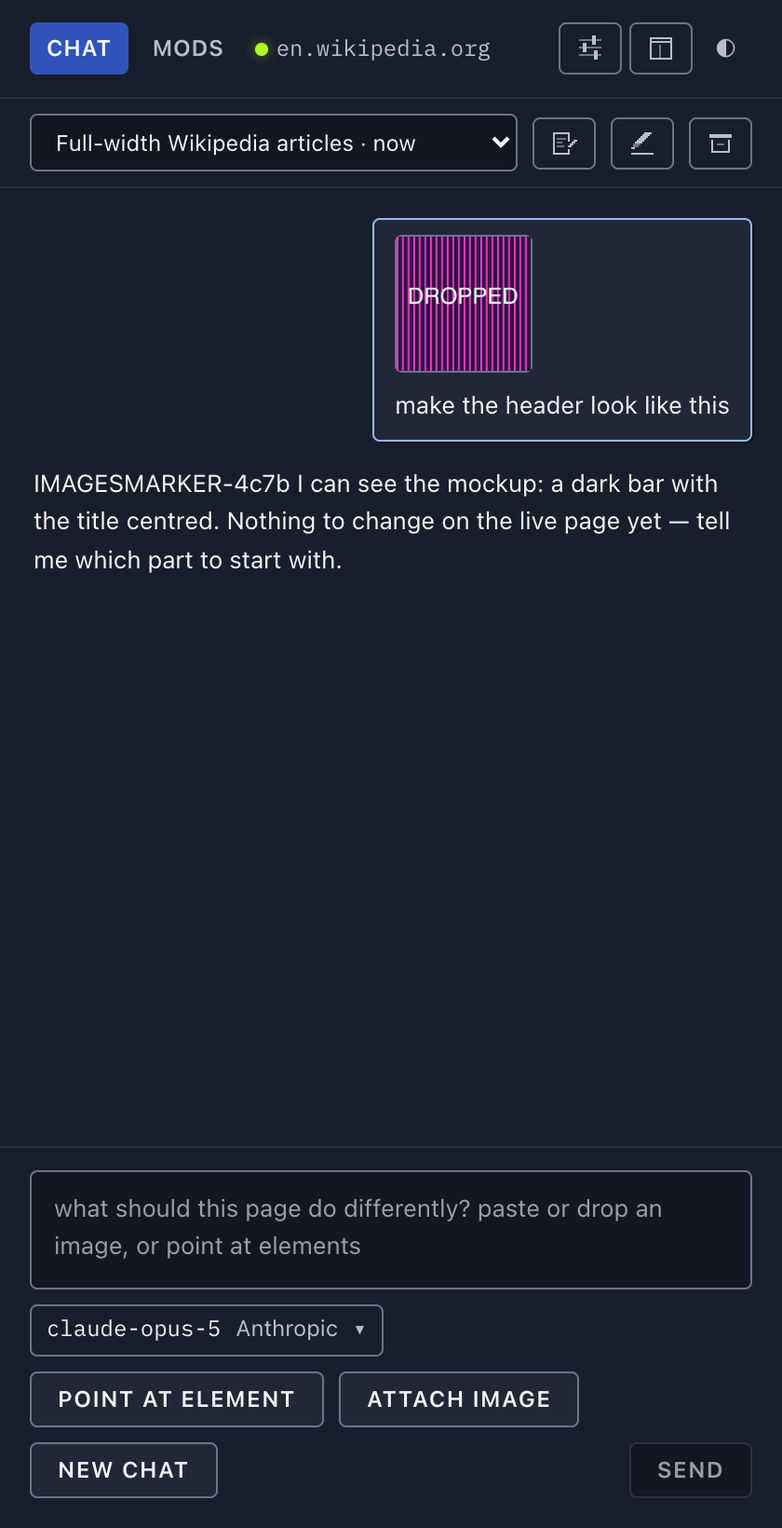
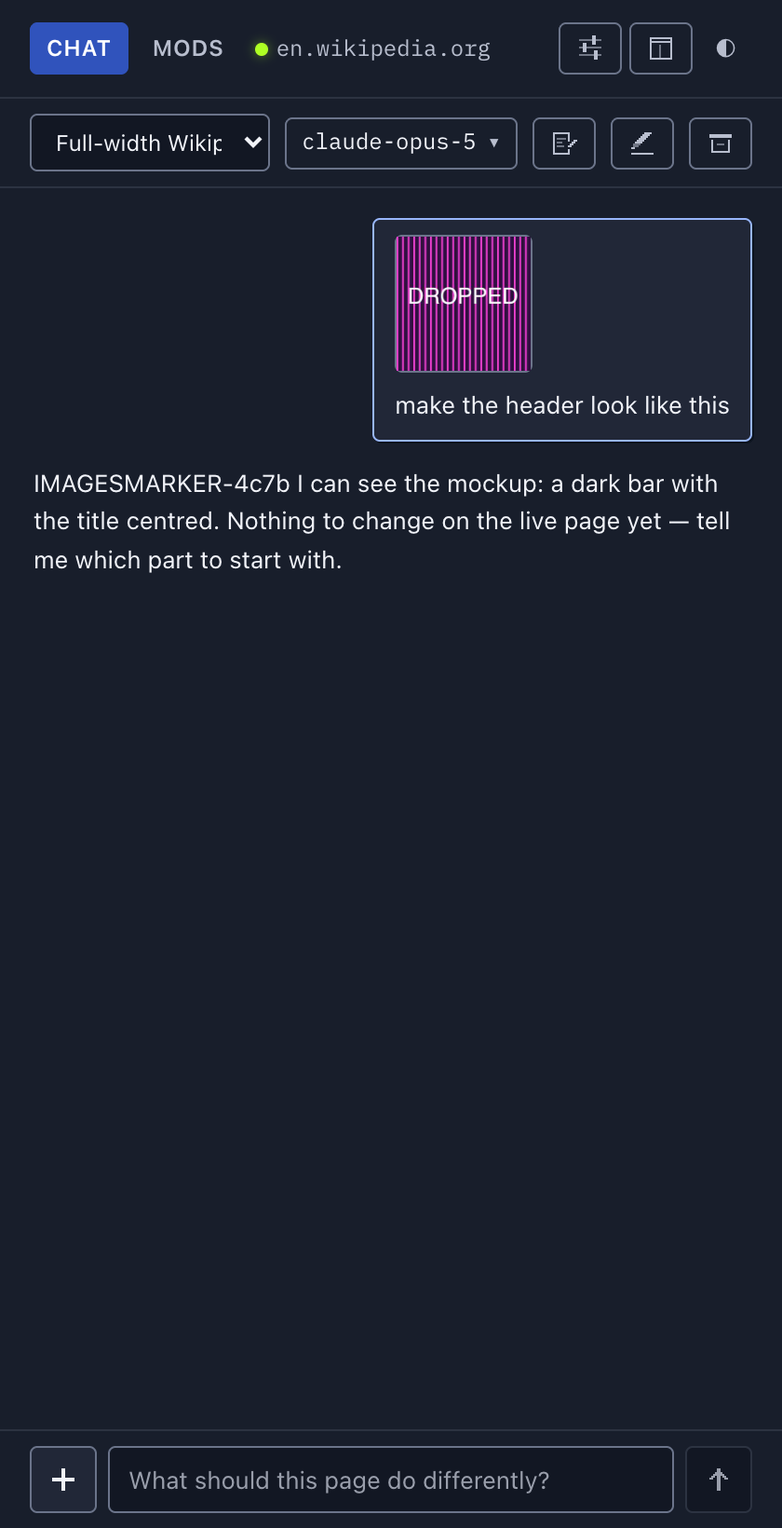
docs: the one-row composer and the model chip
README, design.md (the composer, menus, the dropdown now anchored to the chat bar, the Thinking row
without its help sentence), safari.md, the QA checklist's steps that named the old buttons, and the
CHANGELOG under Unreleased with the before/after heights. Captures the composer appears in are
regenerated: 01 in both themes, 02, 08, 09, 10, 11, 12 (the dropdown open with Thinking inside),
and the store's 01-chat and 02-point. hero-github.png is untouched.

diff --git a/docs/design.md b/docs/design.md
@@ -405,51 +405,94 @@ The toggle is a rounded track with a knob; on is a lime fill with an ink knob, p
 Its **border carries its boundary** — full lime on white is 1.23:1 — and the knob's travel is a
 second signal that does not depend on colour at all.
 
+### The composer
+One row: **+**, the message box, **Send**. The phone's composer (below), adapted to a pointer:
+36px controls instead of 44px, hover states, and a word beside the send mark once the composer is
+520px wide (the tab bar's container-query convention, reused). The box starts at one line
+(`min-height: 36px`, `field-sizing: content`) and grows with its text to ten lines or 40% of the
+panel, whichever is smaller; Enter sends, Shift+Enter breaks the line. Reference and image chips
+appear above the row only when there are any, and the two things about the model that cannot wait
+for the dropdown — a swap that waits for the next turn, a chat with no usable model — are one line
+above the row, only while true. **Send** is the screen's one primary; the same button is **Queue**
+while a run is going and there is something typed, and **Stop** while there is not (`sendMode()` in
+`lib/compactshell.ts`, shared with the phone). Stop is never out of reach: the activity line carries
+its own Stop for the whole run. Empty, the composer is 53px: a 36px row inside 8px of padding and
+its hairline. It was 205px at the panel's default width, and everything it lost the transcript
+gained.
+
+*Don't* put a control in this row that is not about the message being typed. The model is not: it
+is a property of the chat, and it lives in the chat bar.
+
+### Menus (the + button)
+The pattern for a short list of actions behind one button: `components/Menu.tsx`, the composer's
+**+** (Point at element, Attach image, New chat). The ARIA menu-button pattern: a trigger with
+`aria-haspopup="menu"` and `aria-expanded`, a `role="menu"` of `role="menuitem"` buttons; Enter,
+Space and ↓ open on the first item, ↑ on the last; ↑/↓ wrap, Home/End jump, Escape closes and
+returns focus, Tab closes and moves on, a press outside closes. Choosing an item closes the menu and
+returns focus *before* the action runs, so an action that moves focus elsewhere (the file chooser,
+the element picker) is not fought by the menu's clean-up; and it runs inside the click's own event,
+which is what a file input's `click()` needs to count as a gesture.
+
+A bordered panel on `--surface-2` with no shadow, like the dropdown below, opening **upward** from
+its button because the composer is the last thing in the panel, as wide as its words. Rows are the
+text face at body size, sentence case; hover and keyboard focus are one state — the well plus a 2px
+inset primary rail, never colour alone. A shortcut, when an item has one, sits at the right in mono
+`--text-3` and is informative only; none of the three current items has one. Disabled items stay in
+the list and recede by colour, so what the button *can* do is still visible.
+
+*Don't* use a menu for something done on every message. *Don't* draw a scrim: it is a menu, not a
+dialog, and the transcript behind it stays readable.
+
 ### Dropdown menus (the model picker)
 The pattern for choosing one value out of a long, grouped list where a native `<select>` cannot
-filter, group with status, or take a typed value. One instance so far: the model picker under the
-composer (`ModelPicker.tsx`, `modelpicker.css`).
+filter, group with status, or take a typed value. One instance so far: the model chip in the chat
+bar (`ModelPicker.tsx`, `modelpicker.css`), which also holds the Thinking level.
 
-**The trigger reads as a value, not an action.** Mono, sentence case, 12px, a 1px control outline and
-a `▾` — never the uppercase button label, because it is showing an identifier (`claude-opus-5`), not
-asking for a click. The secondary half (the provider) is the text face in `--text-2` and is the first
-thing to truncate; the whole trigger is capped at the line's width, so a 60-character model id
-ellipsises instead of widening a 320px panel. An unset trigger takes the warn edge **and the words**
-"Pick a model" — never the colour alone.
+**The trigger is a chip that reads as a value, not an action.** Mono, sentence case, 12px, a 1px
+control outline and a `▾` — never the uppercase button label, because it is showing an identifier
+(`claude-opus-5`), not asking for a click. It sits in the **chat bar**, after the switcher, because
+the model is a property of the chat rather than of the message being typed, and because it is
+changed rarely: the composer is looked at all the time and is kept to one row. The chip may take
+45% of the bar and no more; the id truncates, and the provider (the text face in `--text-2`) is
+shown only once the bar is 640px wide — at 520px the bar has just spent its width on its buttons'
+words. The Thinking level rides on the chip as a smaller muted pill (`· high`) **only when it is
+not Default**, so it is discoverable without a row of its own and silent for the chat that never
+touched it. An unset chip takes the warn edge **and the words** "Pick a model" — never the colour
+alone.
 
 **The popover is a bordered panel with no shadow.** Nothing lifts in this system except the primary
 button and the hero card, so the popover is separated from the transcript it opens over by
-`--border-strong` on `--surface-2`, not by depth. It opens **upward** (the composer is the last thing
-in the panel), spans the composer's width rather than its trigger's, and is capped at
-`min(420px, 55dvh)` with the list scrolling inside, so it can never reach under the tab bar.
+`--border-strong` on `--surface-2`, not by depth. It opens **downward** from the chat bar, spans
+the bar's content width rather than its chip's (the bar is its positioning context), and is capped
+at `min(420px, 55dvh)` with the list scrolling inside, so it never reaches the composer.
 
 **Anatomy, top to bottom:** one field that both filters and accepts a typed value; the list, grouped
 under section labels (text face, 600, uppercase, tracked — the same as a form label) with a quiet
 status beside a group's name when it needs one (`refreshing…`, `built-in list`, `could not list`, in
-the warn tone plus those words); then a footer of `linklike` actions on `--surface-1`
-(*Refresh models*, *Manage providers…*). A typed value is offered **after** every real match, as
-*Use "…" on <provider>*, so that Enter on a filter picks a real model.
+the warn tone plus those words); then the **Thinking** row (below); then a footer of `linklike`
+actions on `--surface-1` (*Refresh models*, *Manage providers…*). A typed value is offered **after**
+every real match, as *Use "…" on <provider>*, so that Enter on a filter picks a real model.
 
 **States.** The active option (where ↑/↓ is) takes the well **and a 2px inset `--primary` rail** — the
 rail is not optional, because in day the raised surface and the panel are the same white, and a state
 may not rest on colour or on a transitioned property alone. The selected option (the value in use)
 carries a lime `●` and the label weight, so active and selected stay distinguishable when they are
-different rows. Open is marked on the trigger by an inset ring as well as the border.
+different rows. Open is marked on the chip by an inset ring as well as the border.
 
 **Keyboard and ARIA.** Button with `aria-haspopup="listbox"` / `aria-expanded`; the field is
 `role="combobox"` with `aria-controls` and `aria-activedescendant`; the list is `role="listbox"` with
 `role="group"` + `aria-label` per section and `role="option"` + `aria-selected` rows. Focus never
 leaves the field while arrowing. ↑/↓ wrap across groups, Home/End jump when the field is empty, Enter
-picks, Escape closes and returns focus to the trigger, Tab walks on to the footer and then out, which
-closes it. Options pick on `mousedown`, because the field's blur would otherwise close the list
-before a click landed.
+picks, Escape closes from anywhere inside and returns focus to the chip, Tab walks on to the Thinking
+levels and the footer and then out, which closes it. Options pick on `mousedown`, because the
+field's blur would otherwise close the list before a click landed.
 
 *Don't* reach for this where a native `<select>` does the job — Theme and *Side panel opens* are
 three fixed options and stay native. *Don't* put a blurred shadow on it.
 
 ### Segmented level rows (the Thinking row)
 The pattern for choosing one value out of a **short, ordered scale whose available steps depend on
-something else on screen**. One instance so far: the Thinking row under the model picker
+something else on screen**. One instance so far: the Thinking row inside the model dropdown
 (`ModelPicker.tsx`, `modelpicker.css`), which offers only the levels the chosen model accepts.
 
 It is a row of small buttons in `role="radiogroup"`, not a `<select>`, and the reason is the
@@ -458,20 +501,20 @@ of what the row is saying. A select hides that behind a click — you cannot tel
 levels from one with two without opening it. When a model has no levels at all the row is **not
 drawn**, rather than drawn and disabled: a control whose only option is "Default" states nothing.
 
-Each level reads as a value, like the model trigger above it: mono, 12px, sentence case, a 1px
-control outline, no uppercase label. The chosen one takes `--primary` on its border **and a 1px
-inset rail** — the same device the open trigger uses, because a state may not rest on colour or on a
-transitioned property alone. The row's label (`Thinking`) and its one line of help are `--text-3`;
-the help is the text face, wraps to its own line, and names the knob in the provider's own words
-("Sets Claude's effort level"), so what the control actually does is never a guess.
+Each level reads as a value, like the chip above it: mono, 12px, sentence case, a 1px control
+outline, no uppercase label. The chosen one takes `--primary` on its border **and a 1px inset
+rail** — the same device the open chip uses, because a state may not rest on colour or on a
+transitioned property alone. The row's label (`Thinking`) is `--text-3` mono, and the label and the
+level names are the whole explanation: there is **no help sentence**. The one tooltip, on the group,
+says what the scale is ("How much the model reasons before it answers"); what each provider does
+with it on the wire is the README's job, not a line every chat pays for.
 
 *Don't* use this for a long scale, an unordered set, or values that need explaining individually —
 that is the dropdown above. *Don't* draw a disabled row to show a control exists.
 
-Beside the trigger, one line of prose (`--text-2`, or `--error-text` with `role="alert"` for a
-problem) says what the trigger alone cannot: that a swap waits for the next turn, or why there is no
-usable model. A problem sentence wraps onto its own line under the trigger rather than into a
-two-word column beside it.
+Above the message box, one line of prose (`--text-2`, or `--error-text` with `role="alert"` for a
+problem) says what the chip alone cannot: that a swap waits for the next turn, or why there is no
+usable model. It is drawn only while it is true, so the composer's resting state is the row alone.
 
 **The transcript's model marker** — *switched to claude-sonnet-5 · Anthropic* — is a hairline rule
 with a mono label set into it, in `--text-3`: it is a fact about the rows below it, so it reads as a

diff --git a/docs/qa-checklist.md b/docs/qa-checklist.md
@@ -87,9 +87,10 @@ first-run surfaces still look right — skip deeper testing here.
 
 ## 2. Element references (`@` picker)
 
-1. In Chat, click **⌖ Point at element**.
-   **Expected:** button label changes to **"Click an element…"**, and hovering the page now
-   highlights elements under the cursor.
+1. In Chat, click **+** beside the message box, then **Point at element**.
+   **Expected:** the menu closes, the message box's placeholder reads **"Click an element on the
+   page…"** (and the menu's item does too while it lasts), and hovering the page now highlights
+   elements under the cursor.
    **If it fails:** page console (the picker is a content-script overlay).
 2. Click a distinctive element (e.g. a heading or button on the page).
    **Expected:** the picker closes, an `@token` (e.g. `@h1.title`) is inserted into the composer
@@ -114,8 +115,9 @@ first-run surfaces still look right — skip deeper testing here.
 
 1. Send a message that will take a few tool calls to answer (e.g. "read the whole page, list all
    the buttons, then propose something").
-2. While it's still running (composer shows **Queue** button instead of **Send**, and a **Stop**
-   button is visible), type a second message and click **Queue**.
+2. While it's still running (the button beside the message box is **Stop** with nothing typed,
+   and the activity line above the composer carries its own **Stop**), type a second message.
+   **Expected:** the button becomes **Queue** as soon as there is text. Click **Queue**.
    **Expected:** the message appears in the transcript marked **"queued · will be sent between
    steps"**.
    **If it fails:** side panel DevTools.
@@ -124,9 +126,10 @@ first-run surfaces still look right — skip deeper testing here.
    point between tool calls (an `accepted` event un-queues it); it is answered without you doing
    anything further.
    **If it fails:** side panel DevTools, service worker console.
-4. Start another long-running message. This time click **Stop** while it's mid-run.
-   **Expected:** streaming stops promptly; the **Stop** button disappears and **Send** returns;
-   the transcript keeps whatever was produced so far (no crash, no stuck spinner).
+4. Start another long-running message. This time click **Stop** (beside the message box, or on
+   the activity line) while it's mid-run.
+   **Expected:** streaming stops promptly; the button beside the message box goes back to
+   **Send**; the transcript keeps whatever was produced so far (no crash, no stuck spinner).
    **If it fails:** side panel DevTools, service worker console.
 5. Repeat step 4, but this time queue a message *then* hit Stop before it's accepted.
    **Expected:** the queued (unaccepted) message is dropped back into the composer text box (an
@@ -176,7 +179,8 @@ several steps to answer ("read the whole page, list all the buttons, then propos
    **Expected:** the run continues from the last completed step and finishes; no new user bubble.
 9. Start a long run, **close the side panel**, wait ten seconds, reopen it while the run is still
    going.
-   **Expected:** the activity line, **Stop** and **Queue** are showing; the rows produced while the
+   **Expected:** the activity line with its **Stop** is showing, and the button beside the message
+   box reads **Queue** once something is typed; the rows produced while the
    panel was closed are in the transcript, no tool row is stuck on an amber dot once the run is
    over, and there is **no** "some rows from this run are not shown here …" note. That note now
    appears only when a stored transcript really is missing rows — a tool row with no result, or a
@@ -655,7 +659,7 @@ build.
    date. You can also type a model id." and the chat's model picker still offers that built-in
    list, labelled **built-in list**; if the backend names a newer minimum client version, bump
    `CHATGPT_CLIENT_VERSION` in `lib/modellist.ts`.
-5. Go to Chat, open the model button under the message box, pick one of the ChatGPT models, and
+5. Go to Chat, open the model chip in the chat bar, pick one of the ChatGPT models, and
    send a real one-line request on a real page.
    **Expected:** a real streamed response and (ideally) a working proposal, same shape as the
    mock-LLM smoke test but against the live ChatGPT backend. This exercises real API usage
@@ -759,8 +763,7 @@ same base URL with different model ids also works.
 **Part A — a vision model sees the screenshot.**
 
 1. Settings → **Add provider** → **Custom OpenAI API**, base URL set to your server. Leave
-   **Images** on **Auto**. In Chat, pick your vision model from the model button under the message
-   box.
+   **Images** on **Auto**. In Chat, pick your vision model from the model chip in the chat bar.
 2. Open the panel on a page with something visually distinctive above the fold — a coloured
    banner, a large hero image, a chart. Ask something that can only be answered by looking, and
    that is not in the DOM text: *"take a screenshot and tell me what colour the header is"*, or
@@ -836,10 +839,11 @@ OpenAI-compatible endpoint, and a ChatGPT sign-in as the third if you have one.
    **Connected**, and **Fetch models** on each reports a count.
 2. If you are upgrading a profile that had a single provider: **Expected:** it is already there
    as the first card, named after its preset or its host, with the key in place, and the chat's
-   model button already shows the model you were using. Nothing needed re-entering.
-3. In Chat, open the model button under the message box. **Expected:** both providers' models,
-   grouped under their names; typing filters; ↑/↓ and Enter pick; Escape closes and returns focus
-   to the button.
+   model chip in the chat bar already shows the model you were using. Nothing needed re-entering.
+3. In Chat, open the model chip in the chat bar. **Expected:** a dropdown over the transcript with
+   both providers' models, grouped under their names; typing filters; ↑/↓ and Enter pick; Escape
+   closes and returns focus to the chip. Under the models, a **Thinking** row of levels with no
+   help sentence, and none at all for a model that has no reasoning setting.
 4. Pick a model on provider A and ask for something that needs tools **and a screenshot**:
    *"take a screenshot, read the page, and tell me what the header looks like"*. Let it finish.
 5. Pick a model on provider B (the other protocol) and continue: *"now hide that header"*.
@@ -856,7 +860,7 @@ OpenAI-compatible endpoint, and a ChatGPT sign-in as the third if you have one.
    reasoning model is the interesting one: its own earlier reasoning is replayed to it, and no
    other model's is.
 7. Send something slow ("read the whole page carefully and summarise it") and **while it is
-   running** pick a different model. **Expected:** the line beside the model button reads
+   running** pick a different model. **Expected:** the line above the message box reads
    "Applies from the next turn. The reply in progress stays on the model it started with."; the
    running reply finishes normally; the next message goes to the new model and the transcript
    marks the switch there, not earlier.
@@ -864,7 +868,7 @@ OpenAI-compatible endpoint, and a ChatGPT sign-in as the third if you have one.
    on; a **New chat** starts on the last model you picked; the dashboard's chat rows show each
    chat's model and the preview shows the *switched to* lines.
 9. Settings → **Remove** the provider the current chat is on (confirm). Back in Chat:
-   **Expected:** the model button reads **Pick a model**, the line under it reads "The provider
+   **Expected:** the model chip reads **Pick a model**, the line above the message box reads "The provider
    this chat was using (`<name>`) was removed. Pick another model to continue.", and **Send** is
    disabled. Nothing is sent anywhere until you pick a model. **This must never silently continue
    on the other provider.**

diff --git a/README.md b/README.md
@@ -13,10 +13,10 @@ Userscripts, userstyles, usermods.
 ## Why
 
 - **Any backend.** Anthropic's API, OpenAI, OpenRouter, or anything OpenAI-compatible: Ollama, LM Studio, vLLM, mlx_lm. Your key, your machine, no account, no hosted service.
-- **Several at once, and switch mid-conversation.** Connect as many providers as you use. The model is picked in the chat itself, from a dropdown under the message box that lists every connected provider's models, and you can change it at any point: the next turn goes to the new model with the whole conversation, tool calls included. [Details](#choosing-the-model-in-the-chat).
+- **Several at once, and switch mid-conversation.** Connect as many providers as you use. The model is picked in the chat itself, from a chip in the chat bar that opens every connected provider's models, and you can change it at any point: the next turn goes to the new model with the whole conversation, tool calls included. [Details](#choosing-the-model-in-the-chat).
 - **Use the subscription you already pay for.** Sign in with ChatGPT (Plus, Pro, Team) or SuperGrok / X Premium+ straight from Settings. No API key, no local proxy, no per-token bill. [Details](#using-a-subscription-instead-of-an-api-key).
 - **The model actually sees the page.** It has tools to read a pruned DOM, list elements, read computed styles, take screenshots, and run scripts to test its work before proposing anything. Screenshots reach any vision model, whichever protocol its backend speaks; a text-only endpoint is detected once and told to work structurally instead. [Details](#screenshots-and-models-that-cannot-see-them).
-- **Show it what you mean.** Paste or drop a screenshot or a mockup into the composer, or pick one with *Attach image*. Images are shrunk and re-encoded in the panel before they go anywhere, up to four per message. [Details](#attaching-images).
+- **Show it what you mean.** Paste or drop a screenshot or a mockup into the composer, or pick one from the **+** menu beside the message box. Images are shrunk and re-encoded in the panel before they go anywhere, up to four per message. [Details](#attaching-images).
 - **One-off tasks too.** "Scroll to the bottom, open every carousel, and give me download links for all the photos" runs as a script, no mod required.
 - **Portable.** Mods are plain userscripts with a `==UserScript==` header. Nothing proprietary.
 - **MIT.**
@@ -31,7 +31,7 @@ Early. The core loop works end to end: chat, page inspection, live testing, prop
   <tr>
     <td width="50%" valign="top">
       <img src="docs/screenshots/02-chat-refs.png" alt="The composer holding an @img.mw-file-element chip produced by the element picker.">
-      <sub><b>Point at an element.</b> Clicking one on the page drops an <code>@reference</code> into your message, so you can say "this" and mean it.</sub>
+      <sub><b>Point at an element.</b> <b>+</b> → <i>Point at element</i>, then click one on the page: an <code>@reference</code> drops into your message, so you can say "this" and mean it.</sub>
     </td>
     <td width="50%" valign="top">
       <img src="docs/screenshots/06-migrate.png" alt="The Migrate from Tampermonkey card expanded, showing the four export steps.">
@@ -54,8 +54,8 @@ Early. The core loop works end to end: chat, page inspection, live testing, prop
       <sub><b>Installing an outside script.</b> A <code>.user.js</code> link shows what it matches, what it is granted and what it loads, before anything is saved.</sub>
     </td>
     <td width="50%" valign="top">
-      <img src="docs/screenshots/12-model-picker.png" alt="The model picker open under the message box: a filter field, then the models of two connected providers, Anthropic and Ollama, grouped under their names, with Refresh models and Manage providers at the bottom.">
-      <sub><b>Pick the model in the chat.</b> Every connected provider's models, under the message box. Change it mid-conversation and the next turn goes to the new one.</sub>
+      <img src="docs/screenshots/12-model-picker.png" alt="The model dropdown open from the chip in the chat bar: a filter field, the models of two connected providers, Anthropic and Ollama, grouped under their names, a Thinking row of Default, Off, Low, Medium and High, and Refresh models and Manage providers at the bottom. Under the transcript the composer is one row: a plus button, the message box and a send button.">
+      <sub><b>Pick the model in the chat.</b> One chip in the chat bar holds every connected provider's models and the Thinking level. Change it mid-conversation and the next turn goes to the new one.</sub>
     </td>
   </tr>
 </table>
@@ -144,7 +144,7 @@ Then in Chrome:
 
 1. Open `chrome://extensions`, turn on **Developer mode**, click **Load unpacked**, and pick `.output/chrome-mv3`.
 2. Click **Details** on usermods and turn on **Allow User Scripts**. Chrome requires this toggle for any extension that runs user scripts, including Tampermonkey.
-3. Click the usermods icon to open the side panel **on that tab**. Go to **Settings**, click a preset under **Add provider**, and paste a key (or a local server URL). It saves as you type. Back in **Chat**, the model is the dropdown under the message box.
+3. Click the usermods icon to open the side panel **on that tab**. Go to **Settings**, click a preset under **Add provider**, and paste a key (or a local server URL). It saves as you type. Back in **Chat**, the model is the chip in the chat bar, after the chat switcher.
 
 ### Safari on iOS and macOS
 
@@ -302,16 +302,17 @@ picker if they are a day old.
   finishes on the model it started with. A message queued behind it uses the new one.
 - **An endpoint that cannot list its models** (plenty of local servers) still works: type the model
   id into the picker's field and choose *Use "…" on* that provider. It is remembered.
-- **If a chat's provider is removed or signed out**, the chat says so under the message box and
+- **If a chat's provider is removed or signed out**, the chat says so above the message box and
   waits for you to pick another model. It never quietly sends your page to a different provider.
 - Titles and compaction summaries use the chat's model too. The context budget is one setting for
   every provider, so set it for the smallest context window you use.
 
 ### How much the model thinks
 
-Under the model is **Thinking**: how hard this chat asks the model to reason before it answers,
-mapped onto whatever knob that provider actually has. It shows only the levels the chosen model
-accepts, and it is not shown at all for a model that has none.
+In the model dropdown, under the models, is **Thinking**: how hard this chat asks the model to
+reason before it answers, mapped onto whatever knob that provider actually has. It shows only the
+levels the chosen model accepts, and it is not shown at all for a model that has none. When it is
+not Default the chip in the chat bar says so (`claude-opus-5 · high`).
 
 - **Default changes nothing.** Every chat starts there, and a chat left on Default sends exactly
   the request it always did. The other levels are **Off**, **Low**, **Medium**, **High** and
@@ -410,7 +411,7 @@ usermods runs ordinary userscripts, so you can bring in scripts from Greasy Fork
 ### Attaching images
 
 Paste an image into the composer (a screenshot copied with ⌘⌃⇧4 works), drop one onto the panel, or
-use **Attach image**. PNG, JPEG, WebP and GIF are accepted; SVG is refused with a note, because an
+use **+ → Attach image**. PNG, JPEG, WebP and GIF are accepted; SVG is refused with a note, because an
 SVG is a document rather than a picture and rasterizing one here would mean running it.
 
 Everything happens in the panel before anything leaves it. Each image is decoded, scaled so its

diff --git a/docs/safari.md b/docs/safari.md
@@ -333,7 +333,7 @@ that: the chat view is a different arrangement of the same parts, described unde
 | | compact | roomy |
 |---|---|---|
 | where | iPhone, iPad | Mac |
-| chrome | one 44px top bar; everything else in bottom sheets | header, tabs, chat bar, draft panel, composer with its buttons |
+| chrome | one 44px top bar; everything else in bottom sheets | header, tabs, chat bar (with the model chip), draft panel, one-row composer |
 | navigation | the Menu button in the top bar; `‹ Chat` on Mods and Settings | under the header, 34px rows |
 | controls | 44px, switch 48x28 | the panel's own sizes, switch 32x18 |
 | fields | 16px minimum, which is what stops iOS zooming on focus | the panel's sizes |
@@ -455,7 +455,7 @@ The compact chat view now keeps three things on screen, plus one line while a dr
 | On screen | One tap away |
 |---|---|
 | **Top bar**, 44px: the site and the chat's title (one button), the model as a small chip, Menu | **Chats** sheet from the title: New chat, this site's chats (archived grouped), Rename, Archive (or Unarchive and Delete), Edit a mod…, Open dashboard |
-| | **Model** sheet from the chip: provider groups, filter, typed id, the **Thinking** row for the chosen model, Refresh models, Manage providers…. Changing model is two taps |
+| | **Model** sheet from the chip: provider groups, filter, typed id, the **Thinking** row for the chosen model (no help sentence), Refresh models, Manage providers…. Changing model is two taps |
 | | **Menu** sheet: Chat, Mods, Settings, Open dashboard, Theme |
 | **Transcript** | tool rows are one line each; three or more in a row fold into "N steps", which names a running step and counts failures |
 | **Draft pill**, 44px, only with a draft: `Wider comments · v2 · editing`, and **Save** / **Update** / **Saved** | **Draft** sheet from the pill: the whole draft panel (versions, Diff, Try, Update mod, Export, rename, roll back, Save as a new mod instead, Copy, Edit in dashboard) |
@@ -474,7 +474,9 @@ Decisions worth recording:
   run (`stopAlways`), not only once a run has stalled as it does in the panel.
 - **The model is a chip in the top bar,** not a line under the composer. The model is a property of
   the chat, the bar is about the chat, and up there it costs no height. It reads "No model" in
-  amber when the chat has none, and a line above the composer says why and opens the sheet.
+  amber when the chat has none, and a line above the composer says why and opens the sheet. The
+  side panel and the Mac popover since took the same decision: their chip is in the chat bar, and
+  their composer is one row too (see design.md, "The composer").
 - **The Thinking level rides in the Model sheet**, under the models, and on the chip only when it is
   not Default — a second, quieter pill after the model id. The same component draws the row here and
   in the panel (`ModelPicker.tsx`, `inline`), so the levels a model offers cannot drift between the

diff --git a/CHANGELOG.md b/CHANGELOG.md
@@ -6,6 +6,39 @@ All notable changes to usermods are recorded here. The format follows
 
 ## [Unreleased]
 
+### The side panel and the Mac popup: a one-row composer
+
+From the owner, with a picture of the panel at 420px: "this UI is getting unwieldy. Clean it up,
+the mobile compact UI is better, with the model controls hidden behind a drop-down since it's not
+something we change often."
+
+- **The composer is one row**, as it is on the phone: **+**, the message box, **Send**. The box
+  starts at one line and grows with its text; Enter sends and Shift+Enter breaks the line, as
+  before. **+** is a menu of Point at element, Attach image and New chat (a keyboard menu: arrows,
+  Home/End, Escape). The one button on the right is Send, then **Queue** while a run is going and
+  there is something typed, and **Stop** while there is not; the activity line carries its own
+  Stop for the whole run, so typing never puts it out of reach. Reference and image chips still
+  appear above the box when there are any. At 520px of composer the send button gains its word.
+- **Everything about the model is behind one chip in the chat bar**, after the chat switcher:
+  `claude-opus-5 ▾`, with the provider once the bar is 640px wide, and the Thinking level on it
+  only when it is not Default (`claude-opus-5 · high`). It opens a dropdown over the transcript
+  with the provider groups, the filter and typed-id field, the **Thinking** row under the models,
+  and Refresh models and Manage providers…. Same keyboard and ARIA as before; Escape closes from
+  anywhere inside it and returns focus to the chip. The chat bar is on screen whenever there is a
+  page to act on, not only once a chat exists, so the chip always has a home.
+- **The Thinking control lost its help sentence** ("Sets the reasoning effort. Off answers without
+  a reasoning pass." and the five like it), everywhere: the dropdown, and the phone's Model sheet.
+  The label and the level names are the explanation; the one tooltip on the row says what the
+  scale is. What each provider does with it on the wire is in the README.
+- The notes the composer still needs — a swap that waits for the next turn, a chat with no usable
+  model — are one line above the box, only while true.
+- **Measured** with `node scripts/screenshots.mjs --composer-height`, over a finished conversation
+  with its draft panel and nothing typed, in an 820px panel: the composer went from **243, 205 and
+  167px** at 320, 420 and 640px wide to **53px** at all three; everything under the transcript from
+  305, 267 and 204px to 115, 115 and 90px; the transcript from 50.5%, 55.1% and 62.8% of the panel
+  to 73.7%, 73.7% and 76.7%.
+- The phone's compact shell is unchanged apart from the help sentence.
+
 ### Fixed, from user reports on the Chrome build
 
 - **A deleted chat could come back.** Reported as "deleting it does nothing. It shows up again if I
